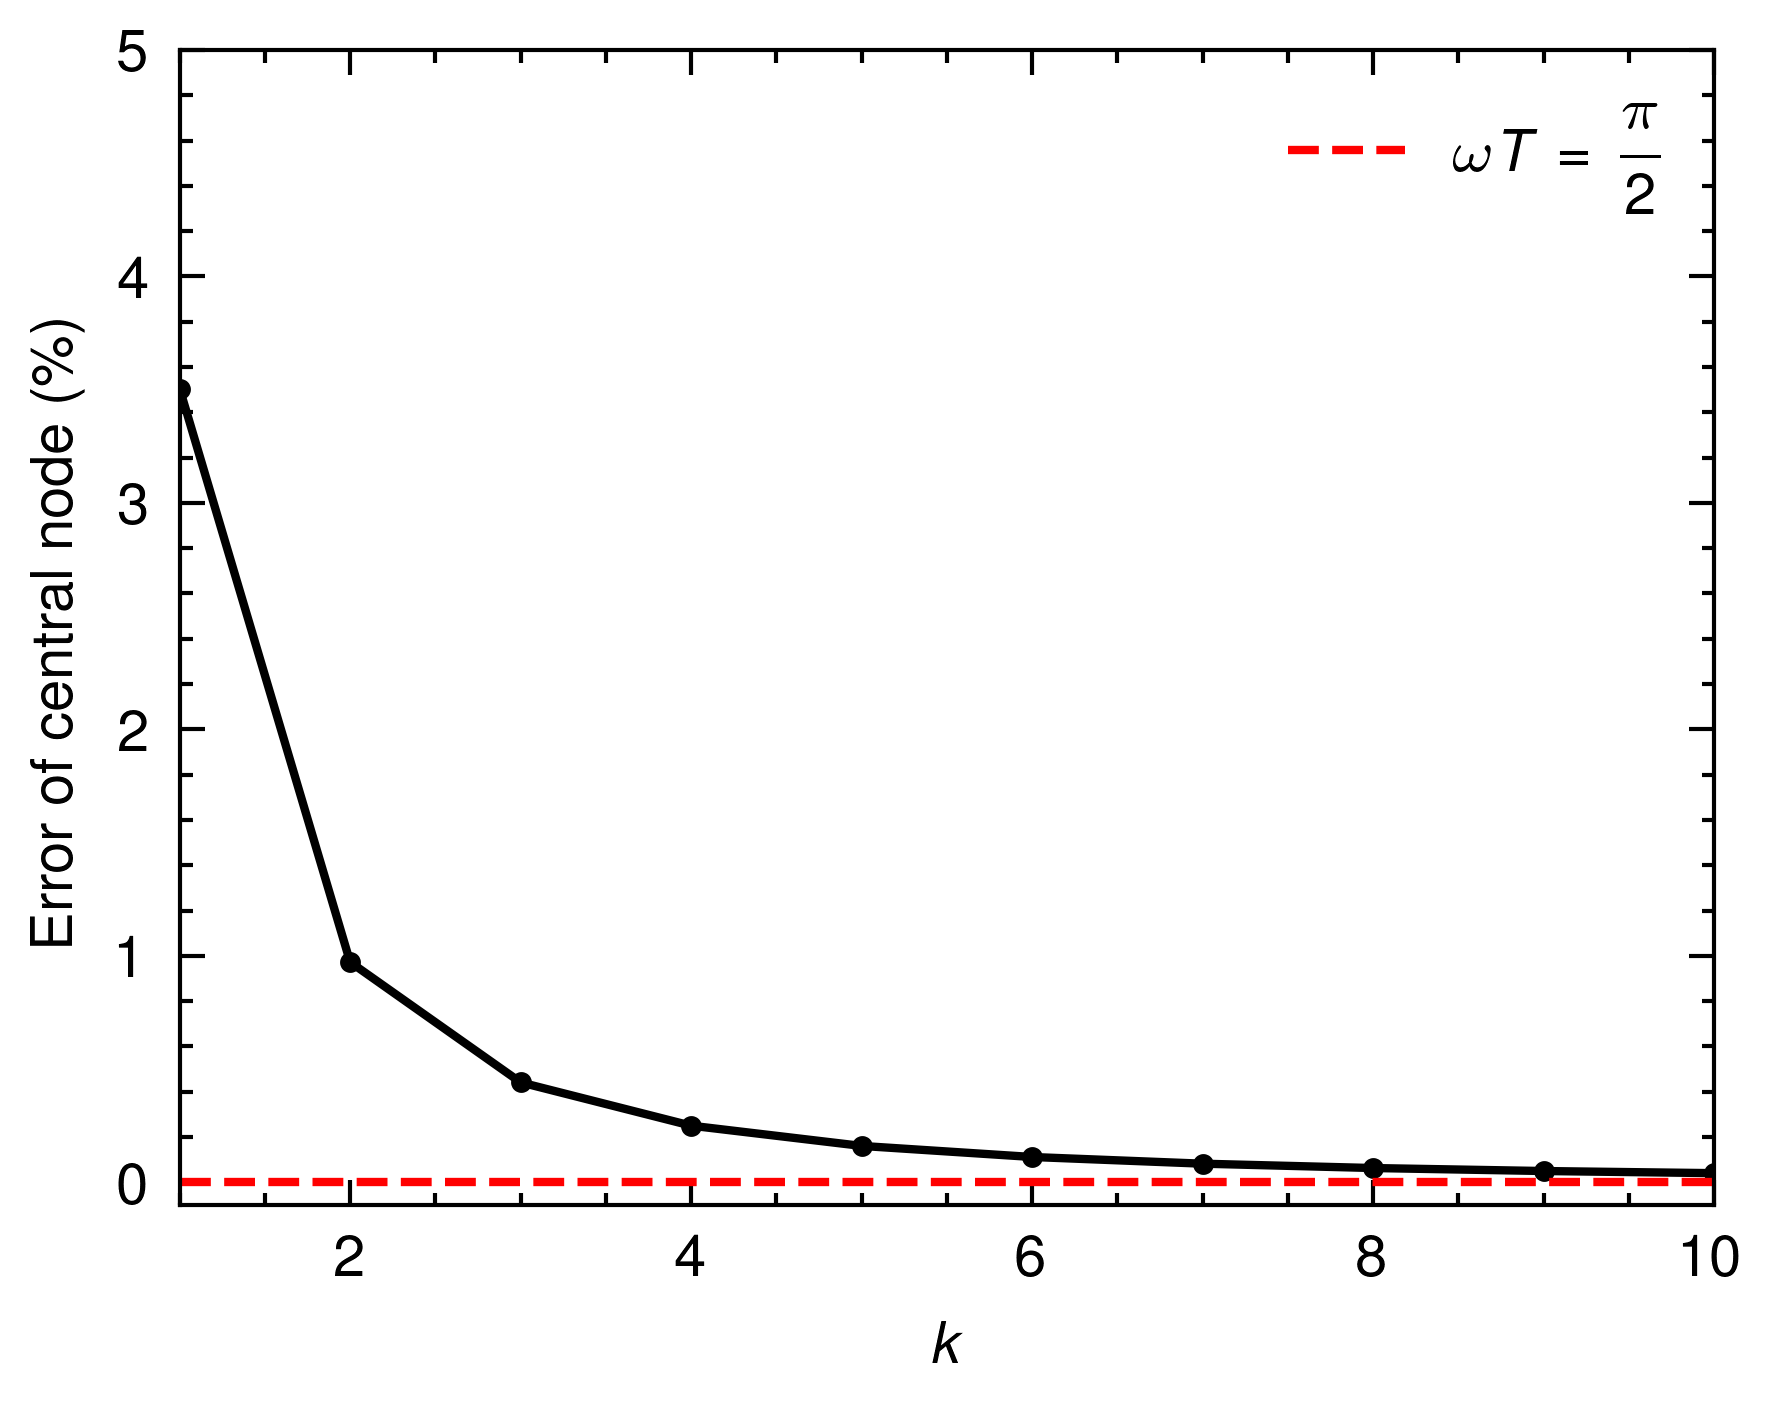
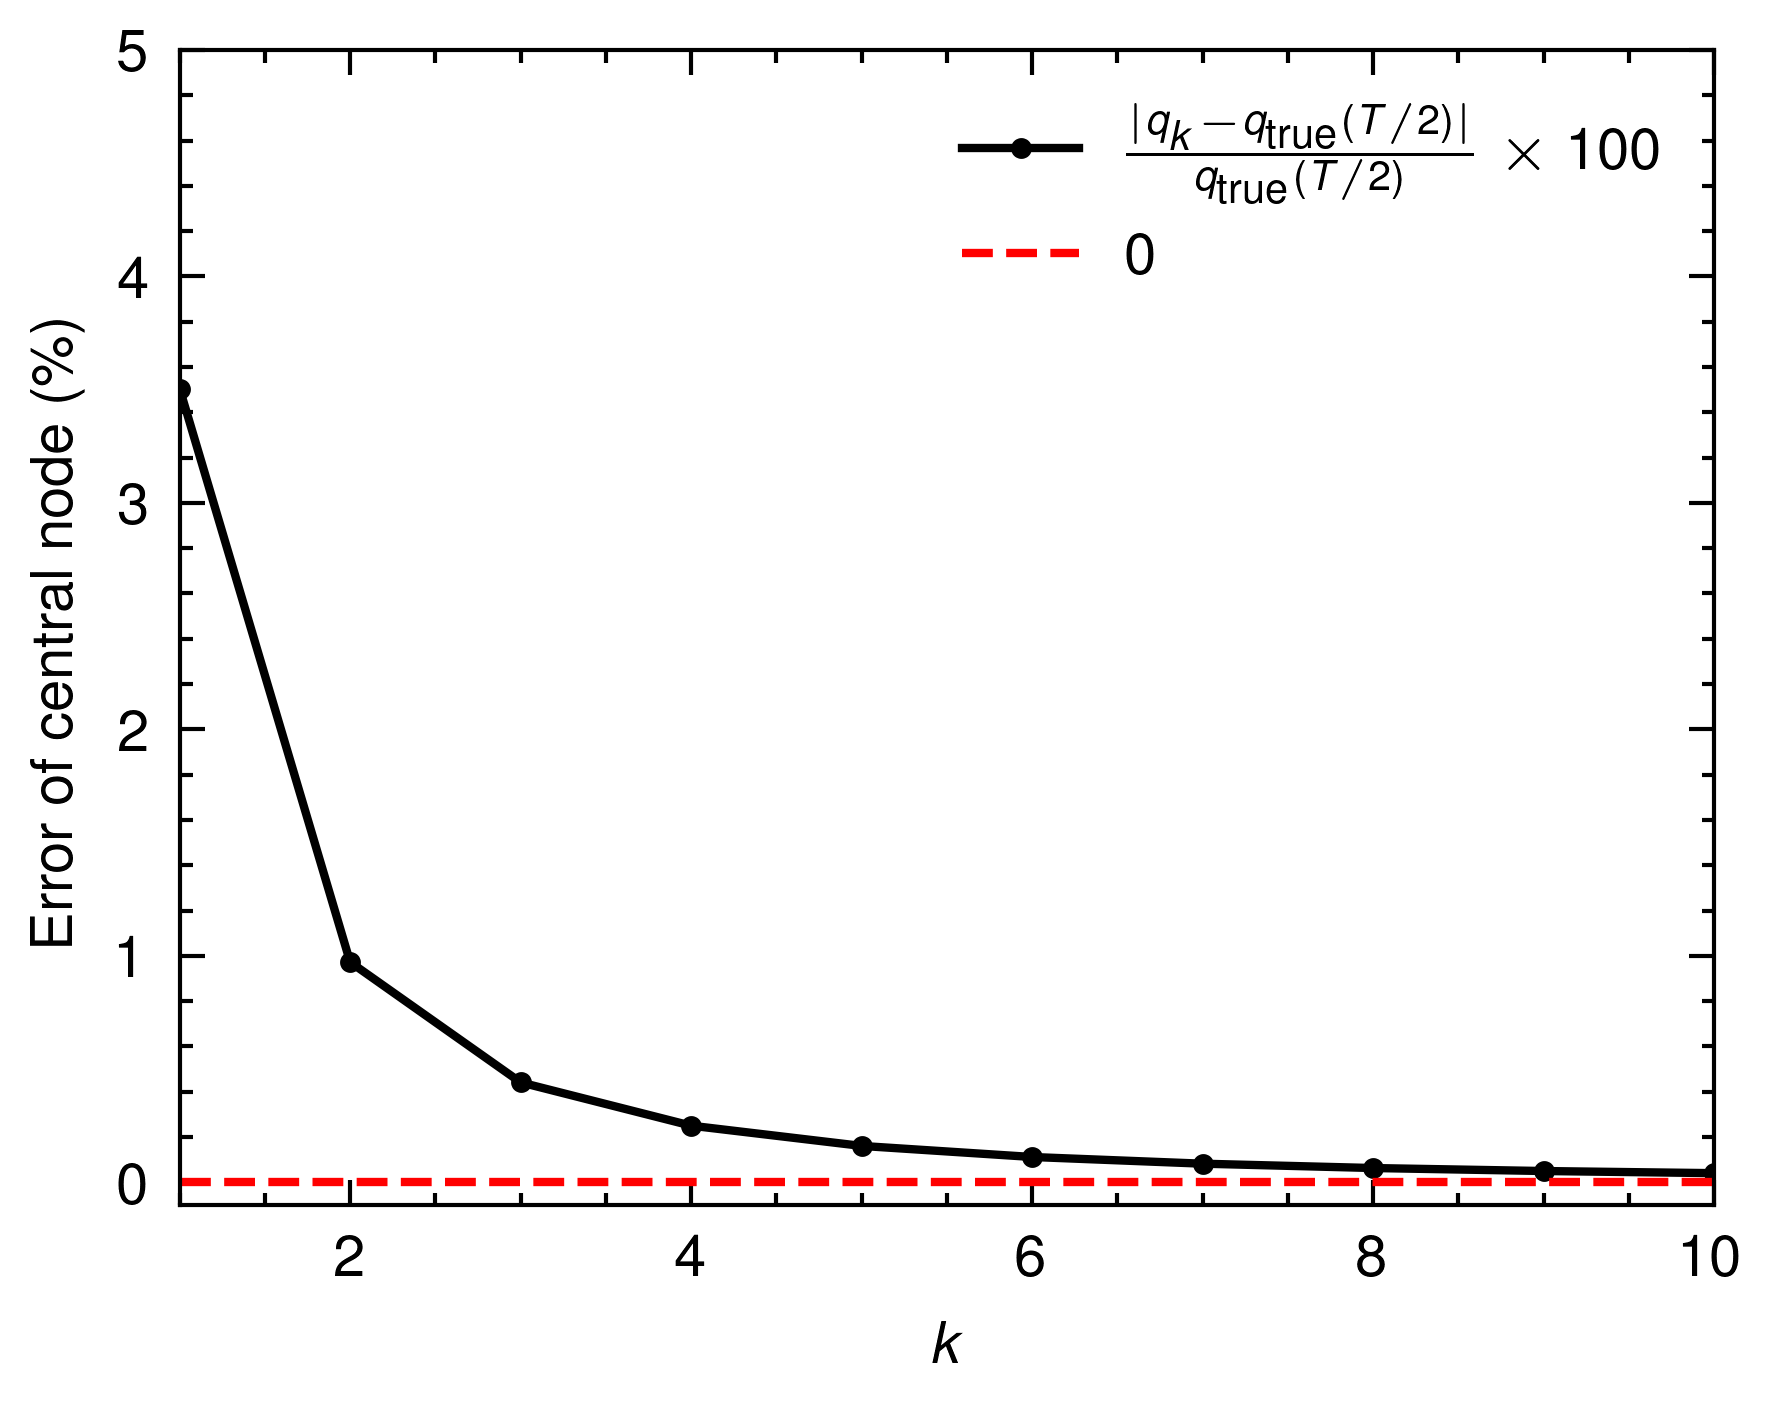
Fix figures' labels

Changed region(s): [[0.6503, 0.0612, 0.9291, 0.153], [0.5265, 0.153, 0.6503, 0.1836], [0.5265, 0.0918, 0.6194, 0.1224]]

diff --git a/theory/pq_plot.py b/theory/pq_plot.py
@@ -56,7 +56,7 @@ with plt.style.context(["science", "nature"]):
     ax.autoscale(tight=True)
     ax.set(**pparam)
     ax.plot(k, y_hat, 'k.-', label=r'$q_k$')
-    ax.plot(k, y_true, 'r--', label=r'$q_\text{true}(T/2)$')
+    ax.plot(k, y_true, 'r--', label=r'$q_\text{true}(T/2) (\omega T = \dfrac{\pi}{2})$')
     ax.legend()
     fig.savefig('plot2.png', dpi=600, bbox_inches='tight')
 
@@ -70,8 +70,8 @@ with plt.style.context(["science", "nature"]):
     fig, ax = plt.subplots()
     ax.autoscale(tight=True)
     ax.set(**pparam)
-    ax.plot(k, y_diff * 100, 'k.-')
-    ax.axhline(y=0, color='r', linestyle='--', label=r'$\omega T = \dfrac{\pi}{2}$')
+    ax.plot(k, y_diff * 100, 'k.-', label=r'$\frac{|q_k - q_\text{true}(T/2)|}{q_\text{true}(T/2)} \times 100$')
+    ax.axhline(y=0, color='r', linestyle='--', label=r'$0$')
     ax.legend()
     fig.savefig('plot3.png', dpi=600, bbox_inches='tight')
 
